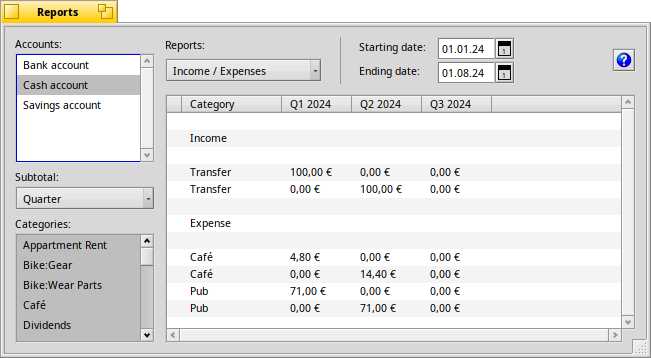
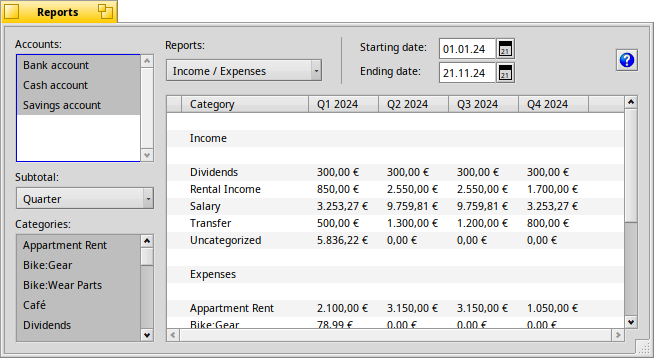
Report: Improved summarily display of categories
Print out one row per category, with all the subtotals in columns.

Since we don't know if a category is of type income or expense, we
can end up with an empty row. By adding a row with the initial title
"<emptyrow>", we can later on ignore those when filling the report
grid.

Fixes #123

diff --git a/src/CashFlowReport.cpp b/src/CashFlowReport.cpp
@@ -94,6 +94,14 @@ ReportWindow::_ComputeCashFlow()
 		*/
 
 		int32 count = timelist.CountItems() - 1;
+
+		// Add one row per category, prefill with "<emptyrow> so it
+		// can be filtered out later
+		incomegrid.AddItem();
+		incomegrid.SetRowTitle(incomegrid.CountItems() - 1, "<emptyrow>");
+		expensegrid.AddItem();
+		expensegrid.SetRowTitle(incomegrid.CountItems() - 1, "<emptyrow>");
+
 		for (int32 subtotal_index = 0; subtotal_index < count; subtotal_index++) {
 			time_t subtotal_start = *((time_t*)timelist.ItemAt(subtotal_index));
 			time_t subtotal_end = *((time_t*)timelist.ItemAt(subtotal_index + 1));
@@ -143,7 +151,6 @@ ReportWindow::_ComputeCashFlow()
 					query.nextRow();
 				}
 				if (inctotal > 0) {
-					incomegrid.AddItem();
 					incomegrid.SetRowTitle(incomegrid.CountItems() - 1, catitem->Text());
 					incomegrid.SetValue(subtotal_index, incomegrid.CountItems() - 1, inctotal);
 				}
@@ -162,7 +169,6 @@ ReportWindow::_ComputeCashFlow()
 					query.nextRow();
 				}
 				if (exptotal > 0) {
-					expensegrid.AddItem();
 					expensegrid.SetRowTitle(expensegrid.CountItems() - 1, catitem->Text());
 					expensegrid.SetValue(subtotal_index, expensegrid.CountItems() - 1, exptotal);
 				}
@@ -172,6 +178,7 @@ ReportWindow::_ComputeCashFlow()
 			query.finalize();
 		}
 	}
+
 	incomegrid.Sort();
 	expensegrid.Sort();
 
@@ -226,6 +233,11 @@ ReportWindow::_ComputeCashFlow()
 	if (!fGridView->IsHidden()) {
 		// Now that the grid is set up, start adding data to the grid
 		for (i = 0; i < incomegrid.CountItems(); i++) {
+			// Don't output empty rows,
+			// e.g. if the previously queried category wasn't of type 'income'
+			if (strcmp(incomegrid.RowTitle(i), "<emptyrow>") == 0)
+				continue;
+
 			BRow* row = new BRow();
 			fGridView->AddRow(row);
 
@@ -251,6 +263,11 @@ ReportWindow::_ComputeCashFlow()
 		fGridView->AddRow(new BRow());
 
 		for (i = 0; i < expensegrid.CountItems(); i++) {
+			// Don't output empty rows,
+			// e.g. if the previously queried category wasn't of type 'expense'
+			if (strcmp(expensegrid.RowTitle(i), "<emptyrow>") == 0)
+				continue;
+
 			BRow* row = new BRow();
 			fGridView->AddRow(row);
 
